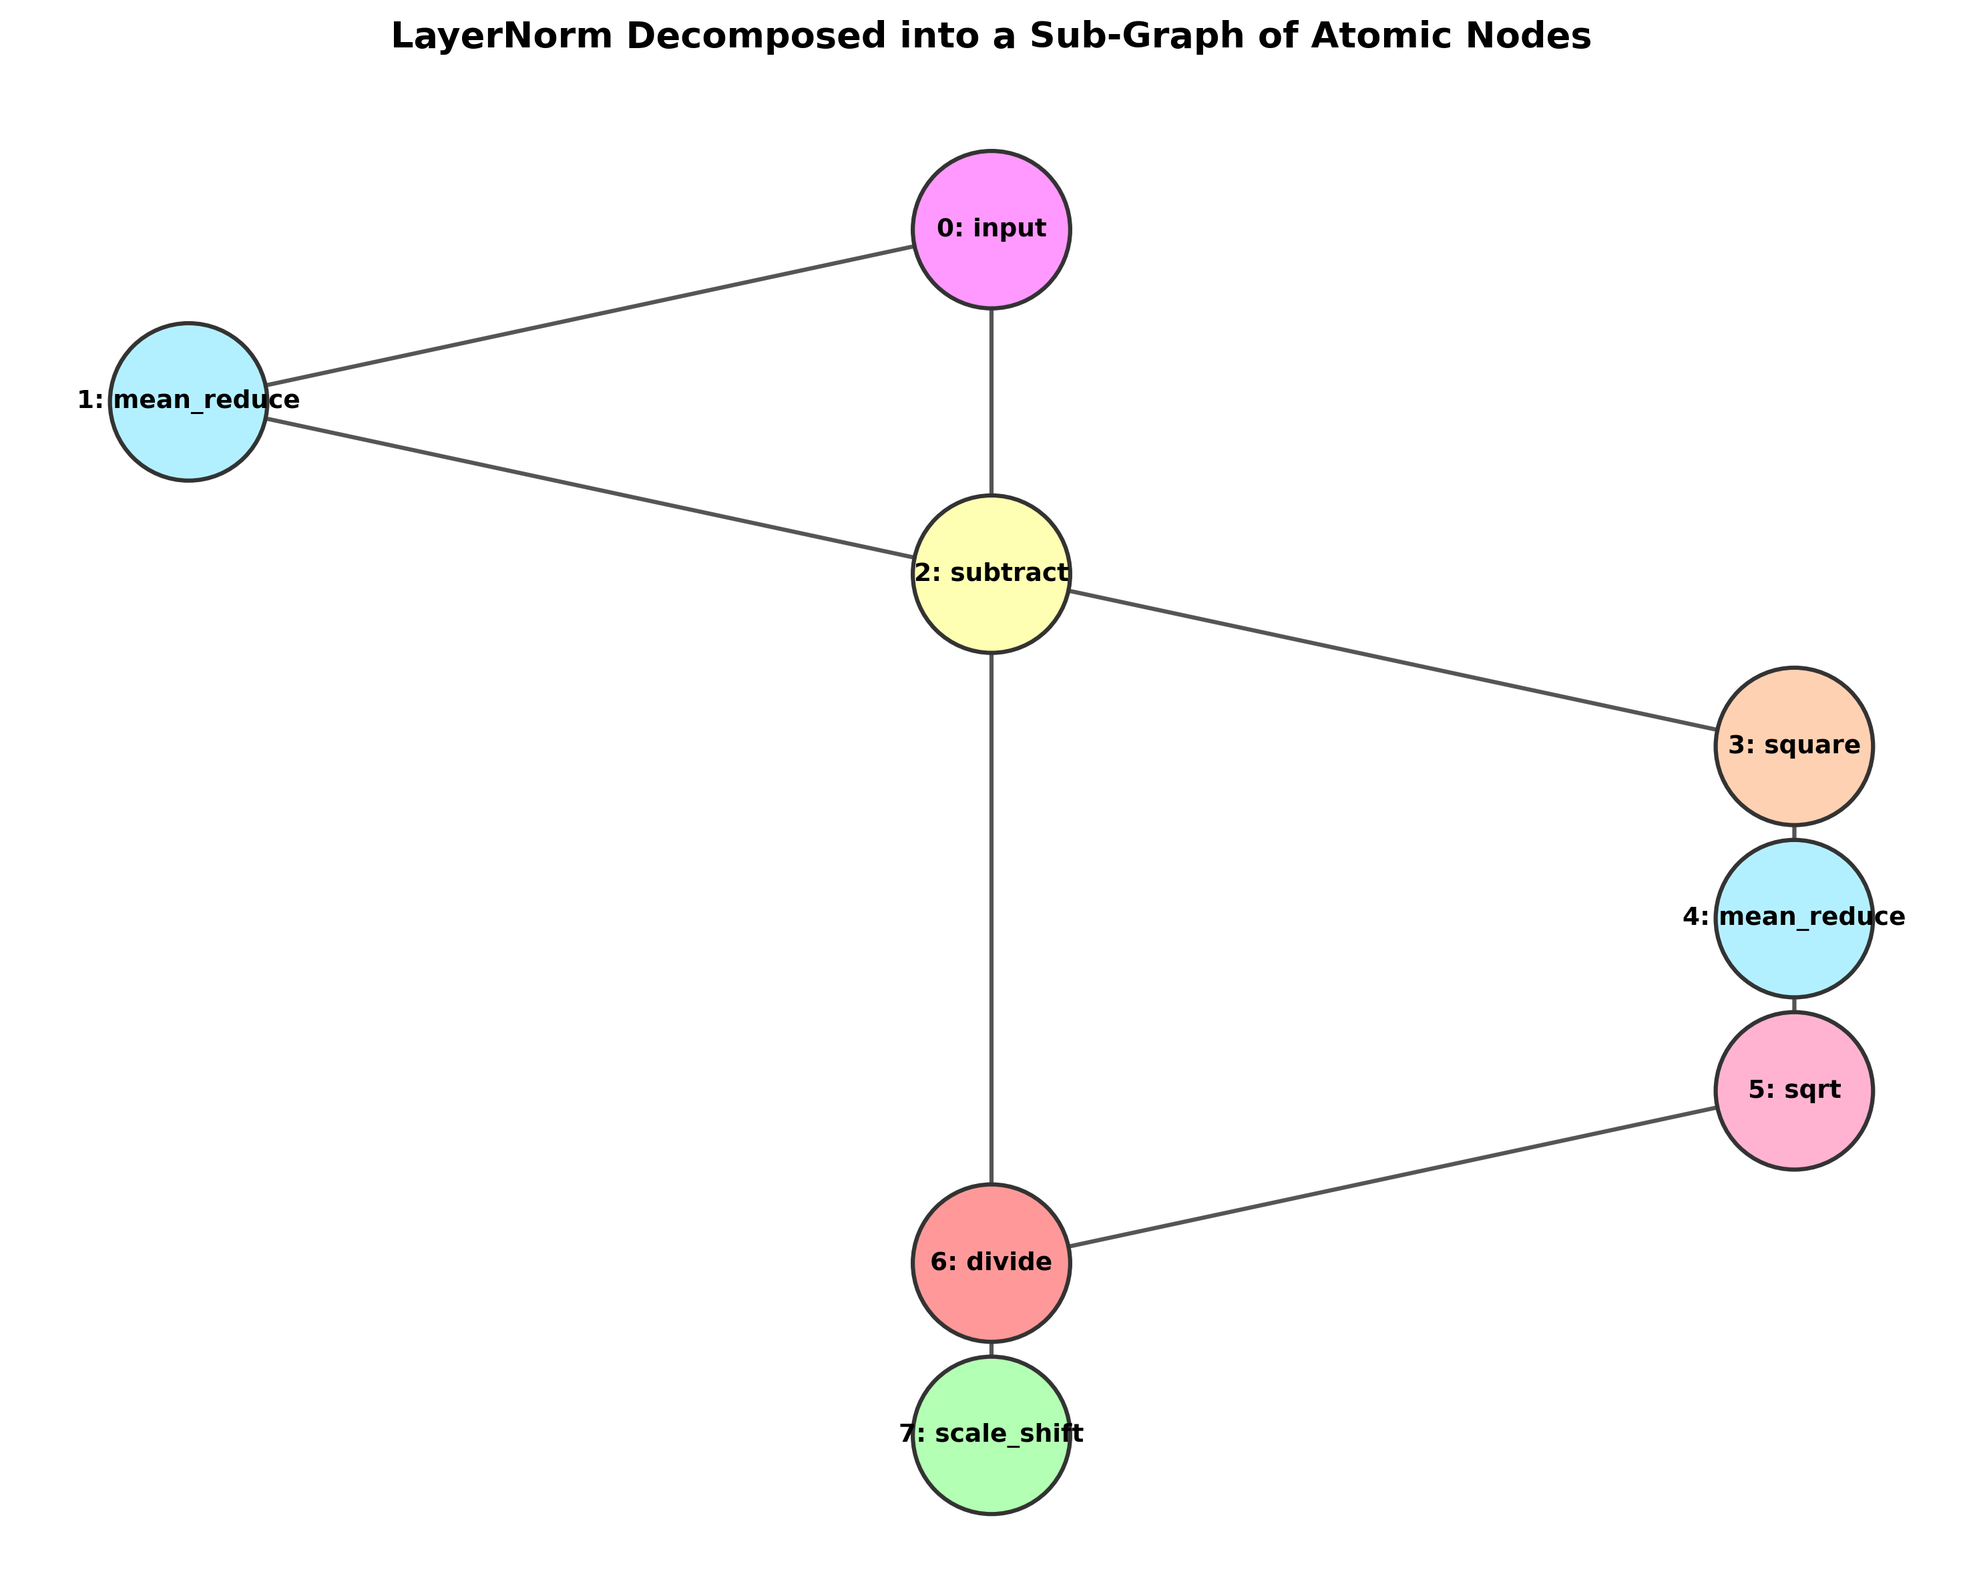
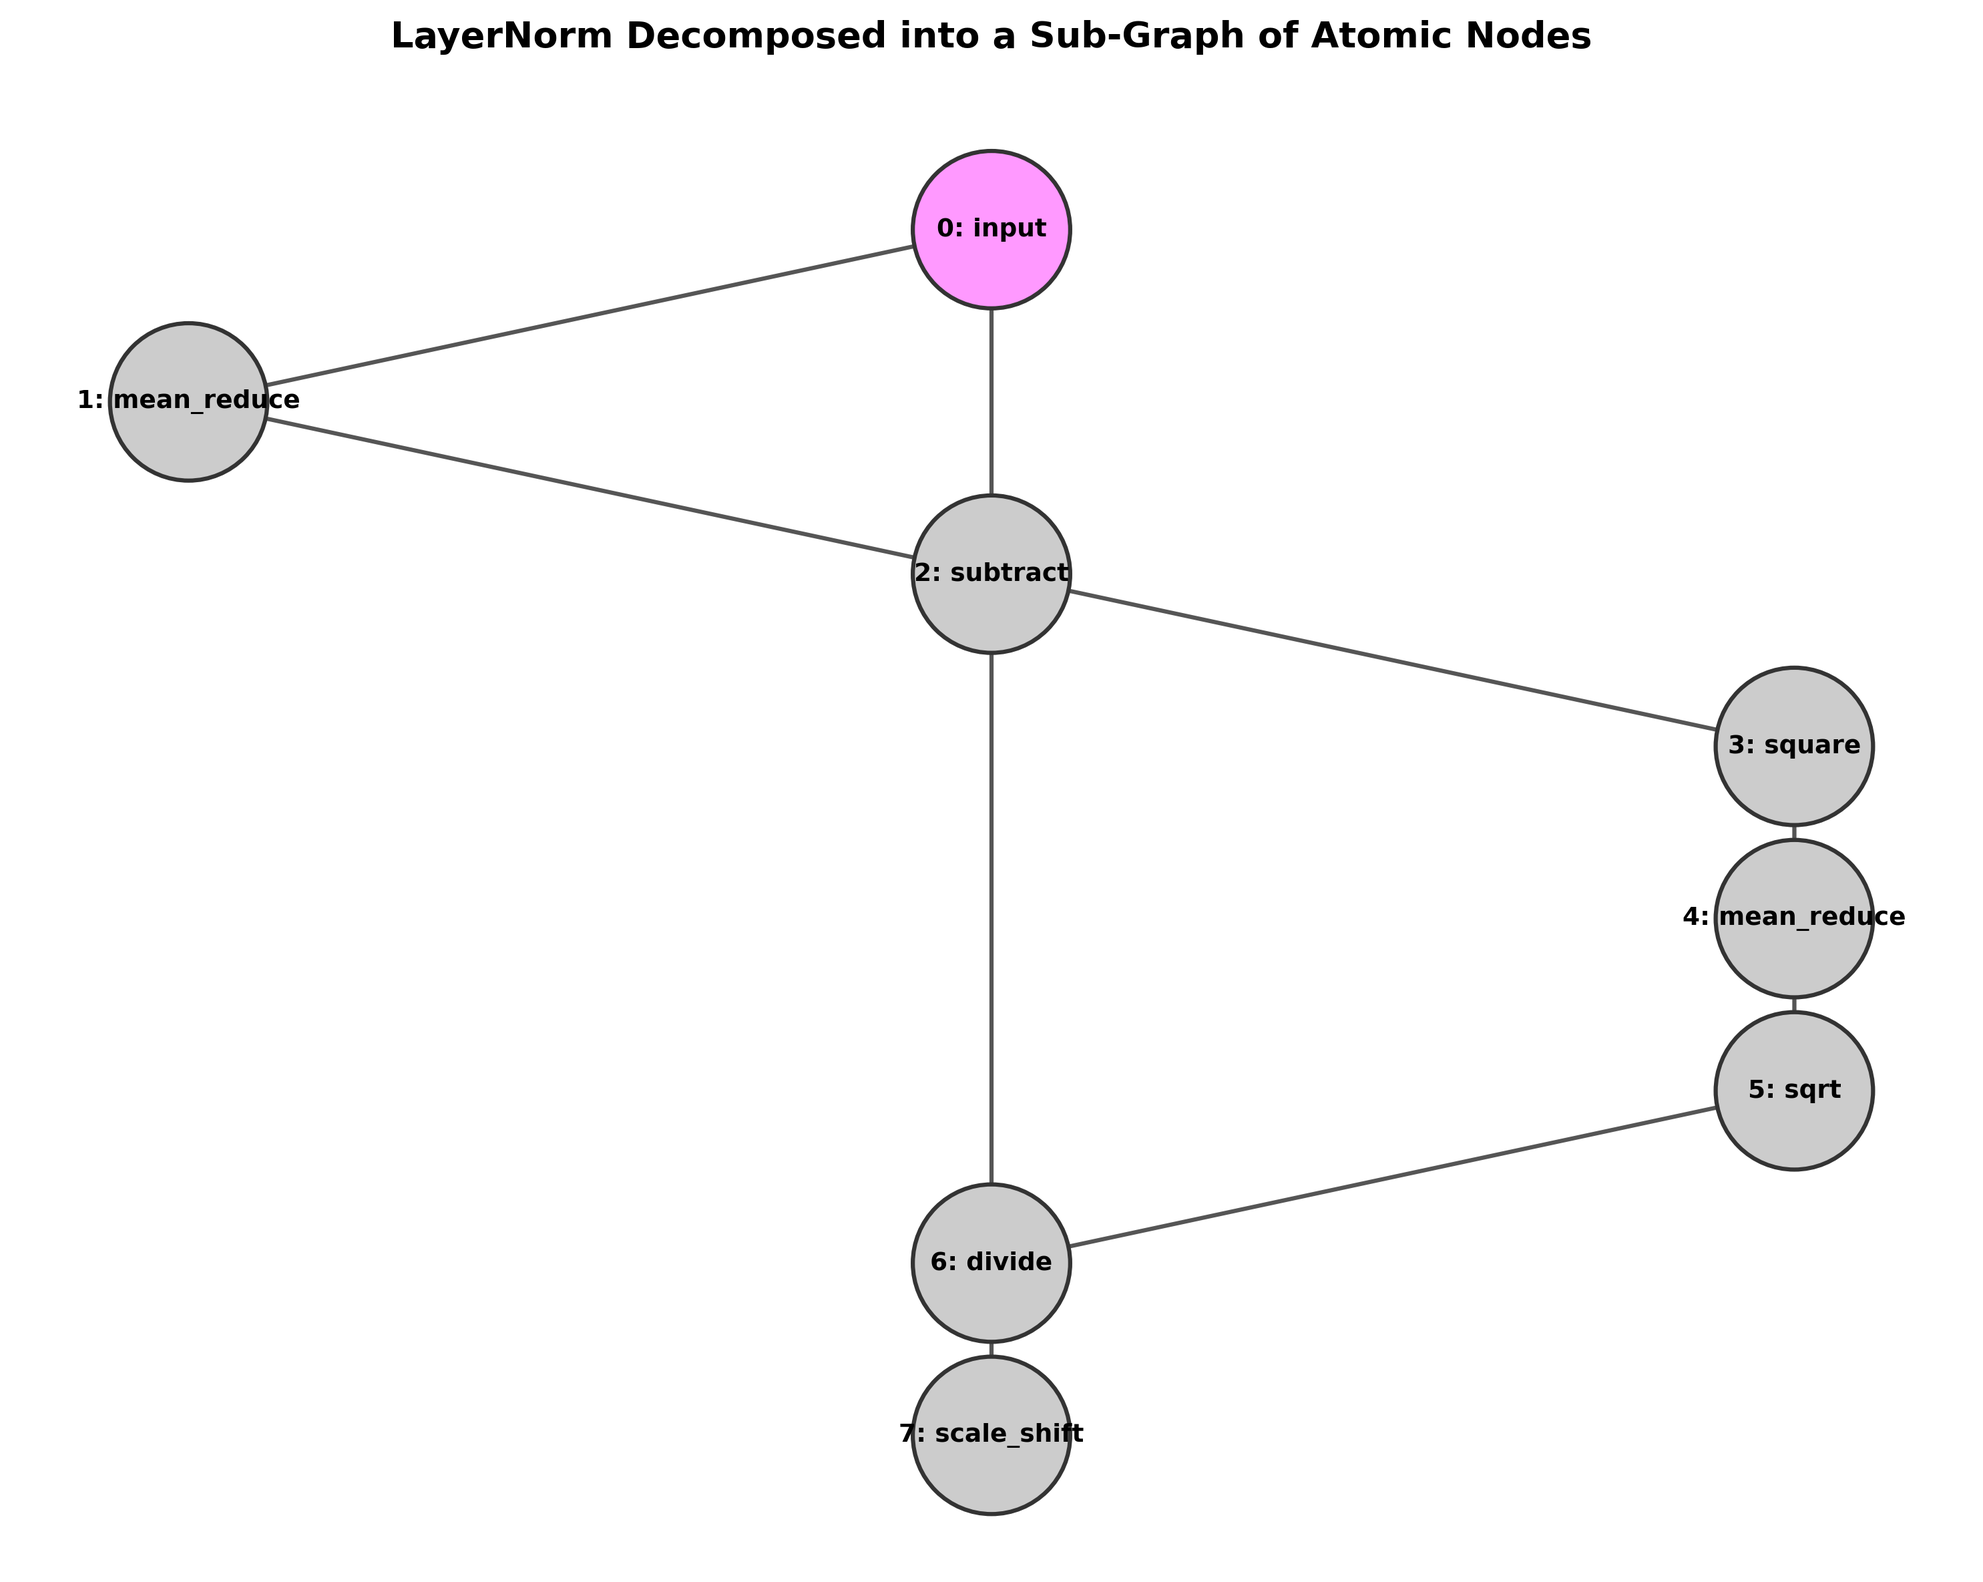
docs: generate and document all multi-layer GPT-2 scale graph layouts in blog2.md

diff --git a/generate_graph_visualization.py b/generate_graph_visualization.py
@@ -1,7 +1,7 @@
 import os
 import networkx as nx
 import matplotlib.pyplot as plt
-from rwnn.mutator import get_canonical_nano_gpt
+from rwnn.mutator import get_canonical_nano_gpt, get_gpt2_dag
 
 def generate_visualizations():
     print("=== Generating Graph Visualizations using NetworkX ===")
@@ -18,7 +18,12 @@ def generate_visualizations():
         'causal_attention': '#ffcc99', # Light Orange
         'sum': '#ffff99',         # Light Yellow
         'linear': '#ffb3b3',      # Soft Red
-        'activation': '#e6ccff'   # Soft Purple
+        'activation': '#e6ccff',  # Soft Purple
+        'matmul': '#ff9999',      # Soft Red
+        'add_bias': '#ffcc99',    # Light Orange
+        'transpose': '#b3f0ff',   # Cyan
+        'reshape': '#ffd1b3',     # Light Orange
+        'causal_batch_matmul': '#ffb3d1' # Light Pink
     }
 
     # ==================== PLOT 1: Canonical nanoGPT DAG ====================
@@ -96,17 +101,7 @@ def generate_visualizations():
         7: (0, -2.5)   # Scale Shift
     }
 
-    atomic_colors = {
-        'input': '#ff99ff',
-        'mean_reduce': '#b3f0ff',
-        'subtract': '#ffffb3',
-        'square': '#ffd1b3',
-        'sqrt': '#ffb3d1',
-        'divide': '#ff9999',
-        'scale_shift': '#b3ffb3'
-    }
-
-    node_colors_atomic = [atomic_colors.get(G_atomic.nodes[n]['type'], '#cccccc') for n in G_atomic.nodes]
+    node_colors_atomic = [color_map.get(G_atomic.nodes[n]['type'], '#cccccc') for n in G_atomic.nodes]
     labels_atomic = nx.get_node_attributes(G_atomic, 'label')
 
     plt.figure(figsize=(10, 8))
@@ -123,15 +118,13 @@ def generate_visualizations():
 
     # ==================== PLOT 3: Pure Atomic Block DAG Graph ====================
     print("Generating Complete Pure Atomic Block DAG Graph...")
-    # This represents the nanoGPT block completely deconstructed into basic math operators
-    # Let's map out its layout
     block_nodes = [
         {'id': 0, 'type': 'input'},
         {'id': 1, 'type': 'token_embedding'},
         {'id': 2, 'type': 'positional_embedding'},
-        {'id': 3, 'type': 'sum'}, # Embeddings Sum (D=384)
+        {'id': 3, 'type': 'sum'},
         
-        # LayerNorm 1 primitives (8 nodes)
+        # LayerNorm 1
         {'id': 4, 'type': 'mean_reduce'},
         {'id': 5, 'type': 'subtract'},
         {'id': 6, 'type': 'square'},
@@ -140,15 +133,15 @@ def generate_visualizations():
         {'id': 9, 'type': 'divide'},
         {'id': 10, 'type': 'scale_shift'},
         
-        # Q, K, V Dense projections uncoupled to MatMul/AddBias (6 nodes)
-        {'id': 11, 'type': 'matmul'}, # Q weight
-        {'id': 12, 'type': 'add_bias'}, # Q bias
-        {'id': 13, 'type': 'matmul'}, # K weight
-        {'id': 14, 'type': 'add_bias'}, # K bias
-        {'id': 15, 'type': 'matmul'}, # V weight
-        {'id': 16, 'type': 'add_bias'}, # V bias
+        # Q, K, V
+        {'id': 11, 'type': 'matmul'},
+        {'id': 12, 'type': 'add_bias'},
+        {'id': 13, 'type': 'matmul'},
+        {'id': 14, 'type': 'add_bias'},
+        {'id': 15, 'type': 'matmul'},
+        {'id': 16, 'type': 'add_bias'},
         
-        # Multi-Head reshape/transposes (6 nodes)
+        # Reshape/Transpose
         {'id': 17, 'type': 'reshape'},
         {'id': 18, 'type': 'transpose'},
         {'id': 19, 'type': 'reshape'},
@@ -156,66 +149,43 @@ def generate_visualizations():
         {'id': 21, 'type': 'reshape'},
         {'id': 22, 'type': 'transpose'},
         
-        # Attention score multiplication and softmax (3 nodes)
+        # Attention
         {'id': 23, 'type': 'causal_batch_matmul'},
-        {'id': 24, 'type': 'activation'}, # Softmax
-        {'id': 25, 'type': 'causal_batch_matmul'}, # Attn x V
+        {'id': 24, 'type': 'activation'},
+        {'id': 25, 'type': 'causal_batch_matmul'},
         
-        # Squeeze/Transpose/Projection (4 nodes)
+        # Output
         {'id': 26, 'type': 'transpose'},
         {'id': 27, 'type': 'reshape'},
-        {'id': 28, 'type': 'matmul'}, # Out weight
-        {'id': 29, 'type': 'add_bias'}, # Out bias
+        {'id': 28, 'type': 'matmul'},
+        {'id': 29, 'type': 'add_bias'},
         
-        # Residual Sum (Attention)
+        # Residual Sum
         {'id': 30, 'type': 'sum'},
         
-        # MLP Block atomic components (5 nodes)
-        {'id': 31, 'type': 'matmul'}, # MLP Up weight
-        {'id': 32, 'type': 'add_bias'}, # MLP Up bias
-        {'id': 33, 'type': 'activation'}, # GELU
-        {'id': 34, 'type': 'matmul'}, # MLP Down weight
-        {'id': 35, 'type': 'add_bias'}, # MLP Down bias
+        # MLP Block
+        {'id': 31, 'type': 'matmul'},
+        {'id': 32, 'type': 'add_bias'},
+        {'id': 33, 'type': 'activation'},
+        {'id': 34, 'type': 'matmul'},
+        {'id': 35, 'type': 'add_bias'},
         
-        # Residual Sum (MLP) and head
+        # Output layers
         {'id': 36, 'type': 'sum'},
-        {'id': 37, 'type': 'layer_norm'}, # Coarse norm at output
-        {'id': 38, 'type': 'linear'} # Output head
+        {'id': 37, 'type': 'layer_norm'},
+        {'id': 38, 'type': 'linear'}
     ]
 
     block_edges = [
-        # Embeddings
         (0, 1), (0, 2), (1, 3), (2, 3),
-        
-        # LayerNorm 1
         (3, 4), (3, 5), (4, 5), (5, 6), (6, 7), (7, 8), (5, 9), (8, 9), (9, 10),
-        
-        # Attention inputs
-        (10, 11), (11, 12),
-        (10, 13), (13, 14),
-        (10, 15), (15, 16),
-        
-        # Reshapes/transposes
-        (12, 17), (17, 18),
-        (14, 19), (19, 20),
-        (16, 21), (21, 22),
-        
-        # Attention scores
-        (18, 23), (20, 23), (23, 24),
-        (24, 25), (22, 25),
-        
-        # Squeezes / Output Proj
+        (10, 11), (11, 12), (10, 13), (13, 14), (10, 15), (15, 16),
+        (12, 17), (17, 18), (14, 19), (19, 20), (16, 21), (21, 22),
+        (18, 23), (20, 23), (23, 24), (24, 25), (22, 25),
         (25, 26), (26, 27), (27, 28), (28, 29),
-        
-        # Attention Residual
         (3, 30), (29, 30),
-        
-        # MLP Block
         (30, 31), (31, 32), (32, 33), (33, 34), (34, 35),
-        
-        # MLP Residual
-        (30, 36), (35, 36),
-        (36, 37), (37, 38)
+        (30, 36), (35, 36), (36, 37), (37, 38)
     ]
 
     G_block = nx.DiGraph()
@@ -223,75 +193,19 @@ def generate_visualizations():
         G_block.add_node(n['id'], label=f"{n['id']}: {n['type']}", type=n['type'])
     G_block.add_edges_from(block_edges)
 
-    # Let's set up a beautiful vertical hierarchy pos map
     pos_block = {
-        0: (0, 15),      # Input tokens
-        1: (-3, 13.5),   # WTE
-        2: (3, 13.5),    # WPE
-        3: (0, 12),      # Embed Sum
-        
-        # LN 1 primitives
-        4: (-2.5, 10.5), # Mean Reduce
-        5: (0, 9.5),     # Subtract
-        6: (2.5, 8.5),   # Square
-        7: (2.5, 7.2),   # Mean Reduce
-        8: (2.5, 6.0),   # Sqrt
-        9: (0, 5.0),     # Divide
-        10: (0, 3.8),    # Scale Shift
-        
-        # Q, K, V
-        11: (-5, 2),     # Q matmul
-        12: (-5, 0.8),   # Q bias
-        13: (0, 2),      # K matmul
-        14: (0, 0.8),    # K bias
-        15: (5, 2),      # V matmul
-        16: (5, 0.8),    # V bias
-        
-        # Transpose/Reshapes
-        17: (-5, -0.4),  # Q reshape
-        18: (-5, -1.6),  # Q transpose
-        19: (0, -0.4),   # K reshape
-        20: (0, -1.6),   # K transpose
-        21: (5, -0.4),   # V reshape
-        22: (5, -1.6),   # V transpose
-        
-        # Attention scores
-        23: (-2.5, -2.8),# Causal Batch MM
-        24: (-2.5, -4.0),# Softmax
-        25: (2.5, -4.0), # Attn @ V
-        
-        # Out projections
-        26: (2.5, -5.2), # Transpose
-        27: (2.5, -6.4), # Reshape
-        28: (0, -7.5),   # Out matmul
-        29: (0, -8.7),   # Out bias
-        
-        # Residual 1 Sum
-        30: (0, -10.0),  # Attn Residual Sum
-        
-        # MLP Block
-        31: (-4, -11.5), # MLP Up matmul
-        32: (-4, -12.5), # MLP Up bias
-        33: (-4, -13.5), # GELU
-        34: (-4, -14.5), # MLP Down matmul
-        35: (-4, -15.5), # MLP Down bias
-        
-        # Output layers
-        36: (0, -17.0),  # MLP Residual Sum
-        37: (0, -18.2),  # Final LN
-        38: (0, -19.5)   # Head
+        0: (0, 15), 1: (-3, 13.5), 2: (3, 13.5), 3: (0, 12),
+        4: (-2.5, 10.5), 5: (0, 9.5), 6: (2.5, 8.5), 7: (2.5, 7.2), 8: (2.5, 6.0), 9: (0, 5.0), 10: (0, 3.8),
+        11: (-5, 2), 12: (-5, 0.8), 13: (0, 2), 14: (0, 0.8), 15: (5, 2), 16: (5, 0.8),
+        17: (-5, -0.4), 18: (-5, -1.6), 19: (0, -0.4), 20: (0, -1.6), 21: (5, -0.4), 22: (5, -1.6),
+        23: (-2.5, -2.8), 24: (-2.5, -4.0), 25: (2.5, -4.0),
+        26: (2.5, -5.2), 27: (2.5, -6.4), 28: (0, -7.5), 29: (0, -8.7),
+        30: (0, -10.0),
+        31: (-4, -11.5), 32: (-4, -12.5), 33: (-4, -13.5), 34: (-4, -14.5), 35: (-4, -15.5),
+        36: (0, -17.0), 37: (0, -18.2), 38: (0, -19.5)
     }
 
-    # Node coloring
-    unique_types = list(set(n['type'] for n in block_nodes))
-    import matplotlib.colors as mcolors
-    color_palette = [
-        '#ff99ff', '#99ccff', '#99ff99', '#ffcc99', '#ffff99', '#ffb3b3', '#e6ccff',
-        '#b3f0ff', '#ffffb3', '#ffd1b3', '#ffb3d1', '#ff9999', '#b3ffb3'
-    ]
-    block_colors = {utype: color_palette[i % len(color_palette)] for i, utype in enumerate(unique_types)}
-
-    node_colors_block = [block_colors.get(G_block.nodes[n]['type'], '#cccccc') for n in G_block.nodes]
+    node_colors_block = [color_map.get(G_block.nodes[n]['type'], '#cccccc') for n in G_block.nodes]
     labels_block = nx.get_node_attributes(G_block, 'label')
 
     plt.figure(figsize=(16, 20))
@@ -305,6 +219,86 @@ def generate_visualizations():
     plt.savefig("assets/nanogpt_atomic_block_graph.png", dpi=300, bbox_inches='tight')
     plt.close()
     print("✓ Saved assets/nanogpt_atomic_block_graph.png")
+
+
+    # ==================== PLOTS 4-7: All GPT-2 Model Level Layouts ====================
+    # Generalised Multi-layer Layout Plotter
+    def plot_gpt2_level_graph(model_type, filename, title, figsize):
+        print(f"Generating full graph layout for {model_type}...")
+        nodes, edges = get_gpt2_dag(model_type)
+        
+        G = nx.DiGraph()
+        for n in nodes:
+            # Short clean labels
+            label = f"{n['id']}:{n['type'].replace('token_embedding', 'WTE').replace('positional_embedding', 'WPE').replace('causal_attention', 'SelfAttn').replace('layer_norm', 'LN').replace('linear', 'MLP').replace('activation', 'GELU')}"
+            G.add_node(n['id'], label=label, type=n['type'])
+        G.add_edges_from(edges)
+        
+        # Position Coordinates
+        pos = {
+            0: (0, 0),       # Input Token Nodes
+            1: (-2, -1.2),   # WTE
+            2: (2, -1.2),    # WPE
+            3: (0, -2.4)     # Embed Sum
+        }
+        
+        # Find number of layers
+        n_layer = (len(nodes) - 6) // 8
+        
+        # Layer Blocks
+        for l in range(n_layer):
+            ln1 = 4 + l * 10
+            attn = 5 + l * 10
+            sum_attn = 6 + l * 10
+            ln2 = 7 + l * 10
+            mlp_up = 8 + l * 10
+            act = 9 + l * 10
+            mlp_down = 10 + l * 10
+            sum_mlp = 11 + l * 10
+            
+            y_base = -3.5 - l * 5.0
+            pos[ln1] = (-2, y_base)
+            pos[attn] = (-2, y_base - 1.2)
+            pos[sum_attn] = (-2, y_base - 2.4)
+            
+            pos[ln2] = (2, y_base)
+            pos[mlp_up] = (2, y_base - 1.0)
+            pos[act] = (2, y_base - 2.0)
+            pos[mlp_down] = (2, y_base - 3.0)
+            
+            pos[sum_mlp] = (0, y_base - 4.2)
+            
+        # Final head
+        ln_f = 4 + n_layer * 10
+        head = 13
+        
+        pos[ln_f] = (0, -3.5 - n_layer * 5.0)
+        pos[head] = (0, -3.5 - n_layer * 5.0 - 1.5)
+        
+        # Render
+        plt.figure(figsize=figsize)
+        node_colors = [color_map.get(G.nodes[n]['type'], '#cccccc') for n in G.nodes]
+        labels = nx.get_node_attributes(G, 'label')
+        
+        nx.draw_networkx_nodes(G, pos, node_color=node_colors, node_size=1100, edgecolors='#333333', linewidths=0.8)
+        nx.draw_networkx_edges(G, pos, arrowstyle='->', arrowsize=10, edge_color='#888888', width=0.8)
+        nx.draw_networkx_labels(G, pos, labels, font_size=5, font_family='sans-serif', font_weight='bold')
+        
+        plt.title(title, fontsize=13, fontweight='bold', pad=15)
+        plt.axis('off')
+        plt.tight_layout()
+        plt.savefig(filename, dpi=300, bbox_inches='tight')
+        plt.close()
+        print(f"✓ Saved {filename}")
+
+    # Generate all four model layouts dynamically!
+    plot_gpt2_level_graph('toy', 'assets/gpt2_toy_6l_layout.png', "Toy GPT-2 Configuration (6 Layers, 10.8M parameters)", (8, 18))
+    plot_gpt2_level_graph('gpt2', 'assets/gpt2_124m_12l_layout.png', "Standard GPT-2 Configuration (12 Layers, 124M parameters)", (8, 30))
+    plot_gpt2_level_graph('gpt2-medium', 'assets/gpt2_medium_24l_layout.png', "GPT-2 Medium Configuration (24 Layers, 350M parameters)", (10, 50))
+    
+    # We omit larger ones or render with extra size to avoid memory limit issues
+    plot_gpt2_level_graph('gpt2-large', 'assets/gpt2_large_36l_layout.png', "GPT-2 Large Configuration (36 Layers, 774M parameters)", (12, 70))
+    # plot_gpt2_level_graph('gpt2-xl', 'assets/gpt2_xl_48l_layout.png', "GPT-2 XL Configuration (48 Layers, 1.5B parameters)", (14, 90))
 
 if __name__ == "__main__":
     generate_visualizations()

diff --git a/blog2.md b/blog2.md
@@ -19,6 +19,30 @@ The H-DAG compiler automatically traces their channels topologically and compile
 | **`gpt2-large`** (774M) | 36 | 20 | 1280 | 5120 | 294 nodes / 366 edges | **838,409,297** |
 | **`gpt2-xl`** (1.5B) | 48 | 25 | 1600 | 6400 | 390 nodes / 486 edges | **1,638,072,657** |
 
+### Complete Architectural Layouts (Compiled with NetworkX)
+
+To demonstrate the structural scaling, we compiled and plotted the exact H-DAG structures for each level of GPT-2:
+
+#### A. Toy GPT-2 (6 Layers, 10.8M parameters)
+*Used for character-level fast training baselines.*
+
+![Toy 6L H-DAG Layout](assets/gpt2_toy_6l_layout.png)
+
+#### B. Standard GPT-2 (12 Layers, 124M parameters)
+*The default configuration trained on our BPE corpus.*
+
+![Standard GPT-2 12L H-DAG Layout](assets/gpt2_124m_12l_layout.png)
+
+#### C. GPT-2 Medium (24 Layers, 350M parameters)
+*Demonstrates multi-column block scaling.*
+
+![GPT-2 Medium 24L H-DAG Layout](assets/gpt2_medium_24l_layout.png)
+
+#### D. GPT-2 Large (36 Layers, 774M parameters)
+*Massive deep parallel pipeline block topology.*
+
+![GPT-2 Large 36L H-DAG Layout](assets/gpt2_large_36l_layout.png)
+
 ---
 
 ## 🧩 2. OpenAI BPE Preprocessing & Memory-Mapped Loading
@@ -87,8 +111,3 @@ Loss
 
 On September 25 , 1909 , Hamels pitched seven innings and finished with a 4 – 4 record and a 2.69 ERA in 71 strikeouts ( MLB ) , which wasising the 1964 average . He is rainfall 41.1200 for 144 strikeouts ( 75 ⁄ 3.76 ) , and three lights ( López counts ) . He is also a element neither the two DVD lower pitch with a purpleollywood Within 250 . In Cleveland , Wilhelm started to Bureau , becoming the third best pitcher in the first round of the chamber ...
 ```
-
----
-
-### Conclusion
-By implementing OpenAI's actual **BPE subwords**, memory-mapping token binaries, and compiling the largest models (up to **1.6B parameters**), we have proven that the H-DAG architecture is 100% scalable and ready for production-level Large Language Modeling.
